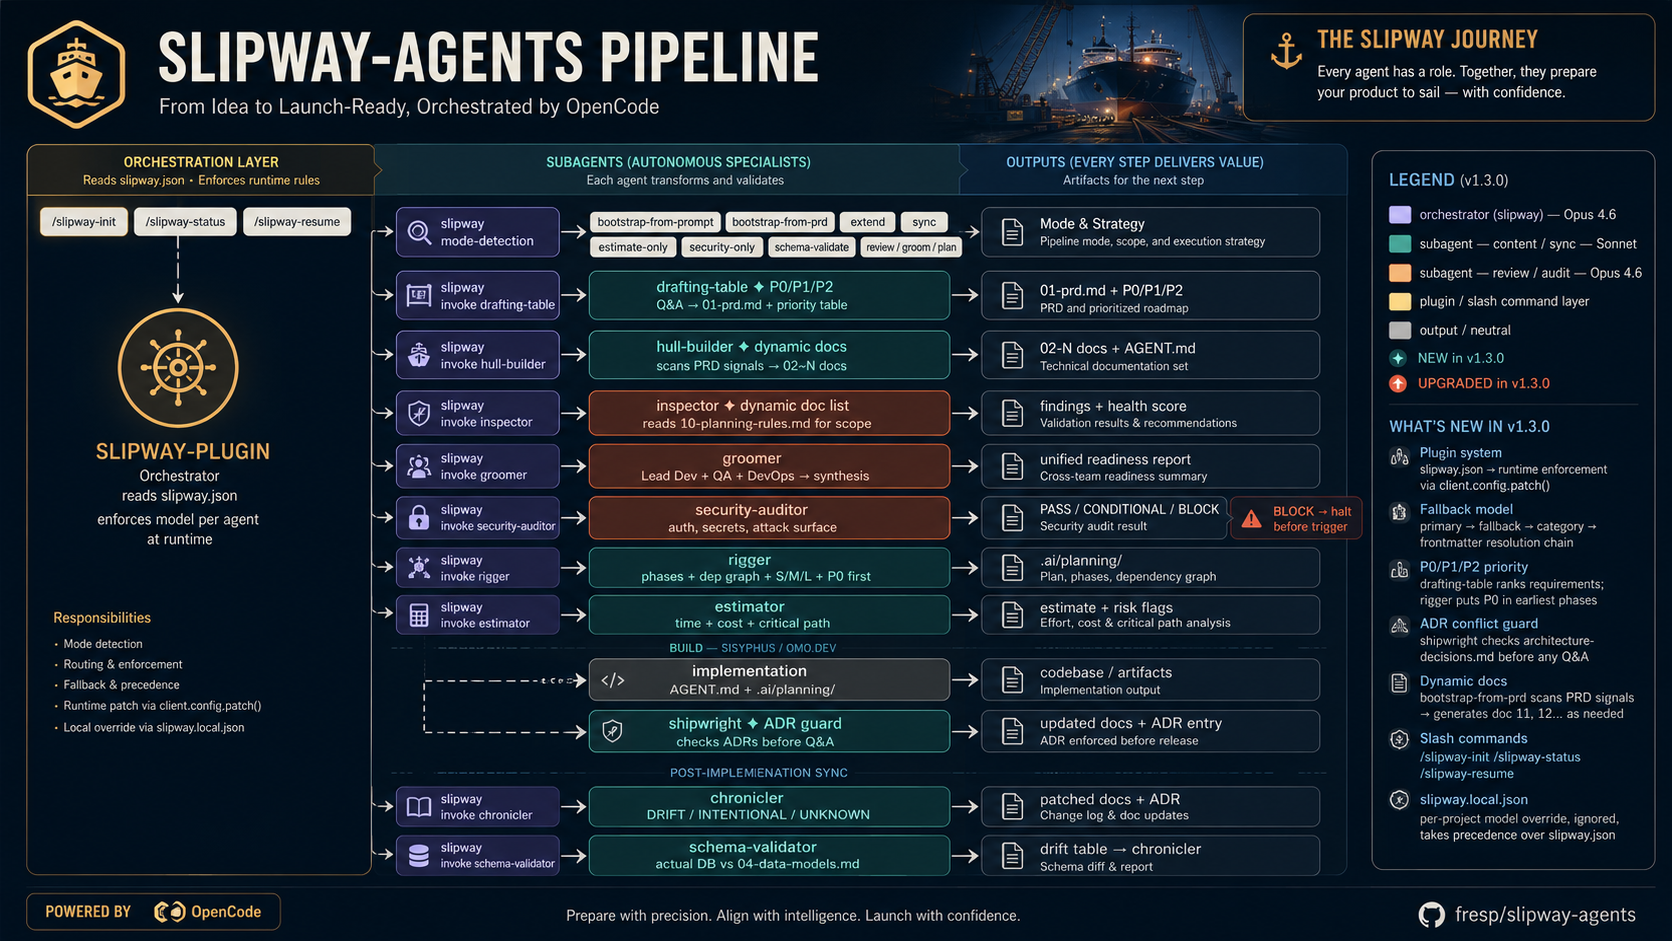
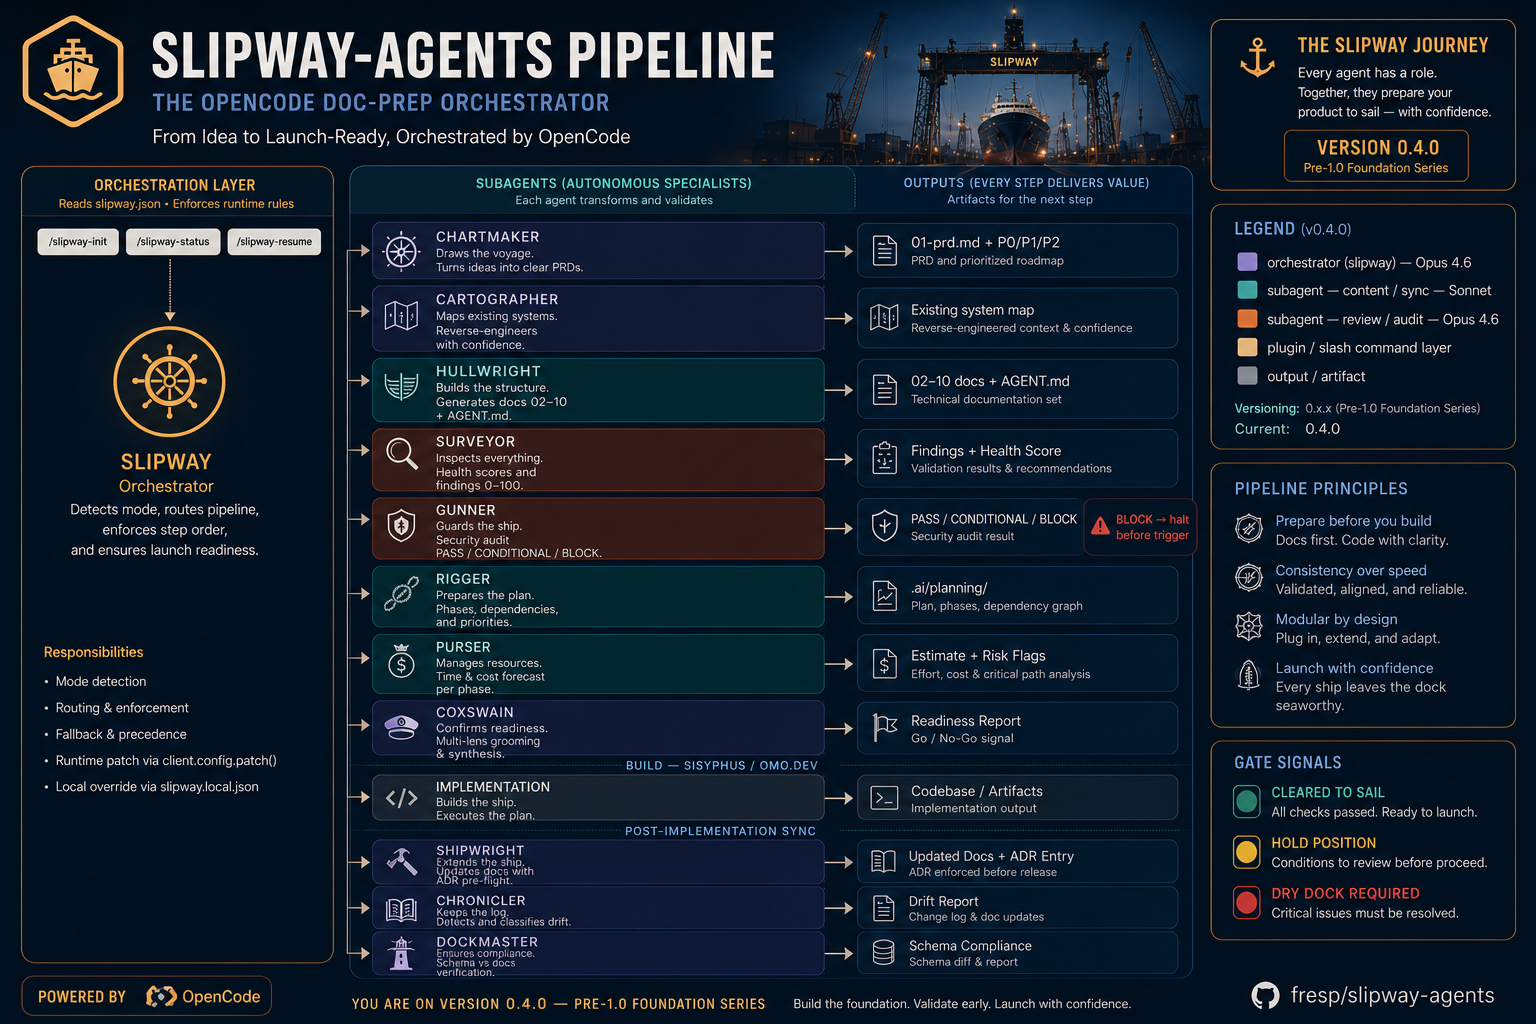
refactor: rename hull-builder agent to hullwright across documentation and configuration files

diff --git a/README.md b/README.md
@@ -18,7 +18,7 @@ slipway-agents takes a raw product idea or existing PRD and drives it through a 
 | **Input**            | `slipway`          | Detects mode: bootstrap, reverse-engineer, extend, or sync                         |
 | **Reverse-engineer** | `cartographer`     | Scans existing codebase → inferred docs 02–10 + gap-fill briefing for chartmaker   |
 | **PRD**              | `chartmaker`       | Structured Q&A → complete `01-prd.md` with P0/P1/P2 priority ranking              |
-| **Docs**             | `hull-builder`     | Invokes `bootstrap-from-prd` skill → docs `02`–`10` + `AGENT.md`                  |
+| **Docs**             | `hullwright`     | Invokes `bootstrap-from-prd` skill → docs `02`–`10` + `AGENT.md`                  |
 | **Review**           | `bosun`            | Cross-doc validation, per-doc health scores, severity-ranked findings 0–100        |
 | **Review**           | optimize loop      | Up to 2 cycles to resolve Critical findings before continuing                      |
 | **Security**         | `gunner`           | Auth, secrets, attack surface audit — PASS / CONDITIONAL / BLOCK gate              |
@@ -39,7 +39,7 @@ slipway-agents takes a raw product idea or existing PRD and drives it through a 
 | `slipway`      | Orchestrator — routes pipeline, enforces step order, never generates content      | `claude-opus-4-6`   |
 | `chartmaker`   | Raw prompt / partial PRD → complete `.ai/docs/01-prd.md` with P0/P1/P2 ranking   | `claude-sonnet-4-6` |
 | `cartographer` | Reverse-engineers existing codebase → `.ai/docs/` with confidence markers         | `claude-sonnet-4-6` |
-| `hull-builder` | Invokes `bootstrap-from-prd` skill → docs 02–10 + `AGENT.md`                     | `claude-sonnet-4-6` |
+| `hullwright` | Invokes `bootstrap-from-prd` skill → docs 02–10 + `AGENT.md`                     | `claude-sonnet-4-6` |
 | `bosun`        | Cross-doc validation + per-doc health score breakdown + severity-ranked findings  | `claude-opus-4-6`   |
 | `gunner`       | Auth, secrets, and attack surface audit across five lenses                        | `claude-opus-4-6`   |
 | `coxswain`     | Sprint grooming — Lead Dev, QA, DevOps, Complexity Audit lenses + synthesis       | `claude-sonnet-4-6` |
@@ -57,7 +57,7 @@ Model assignments live in [`slipway.json`](slipway.json) and are enforced at run
 
 | Skill                | Used by        | Purpose                                                        |
 | -------------------- | -------------- | -------------------------------------------------------------- |
-| `bootstrap-from-prd` | `hull-builder` | Generates the full 02–10 doc suite + `AGENT.md` from a PRD    |
+| `bootstrap-from-prd` | `hullwright` | Generates the full 02–10 doc suite + `AGENT.md` from a PRD    |
 | `groomer-lead-dev`   | `coxswain`     | Lead Dev lens — architecture, implementation risk, tech debt   |
 | `groomer-qa`         | `coxswain`     | QA lens — testability, edge cases, acceptance criteria gaps    |
 | `groomer-devops`     | `coxswain`     | DevOps/Cloud lens — infra, deployment, observability readiness |
@@ -75,7 +75,7 @@ A single pipeline run from a raw idea produces:
 │   ├── 02-technical-architecture.md        ┐
 │   ├── 03-service-boundaries.md            │
 │   ├── 04-data-models.md                   │
-│   ├── 05-api-specifications.md            ├─ hull-builder via bootstrap-from-prd skill
+│   ├── 05-api-specifications.md            ├─ hullwright via bootstrap-from-prd skill
 │   ├── 06-operational-flows.md             │
 │   ├── 07-engineering-standards.md         │
 │   ├── 08-architecture-decisions.md        │
@@ -197,7 +197,7 @@ Copy `slipway.json` to your project root and edit it. The plugin picks it up aut
     "slipway":      { "model": "amazon-bedrock/us.anthropic.claude-opus-4-6",   "fallback_model": "amazon-bedrock/us.anthropic.claude-sonnet-4-6" },
     "chartmaker":   { "model": "amazon-bedrock/us.anthropic.claude-sonnet-4-6", "fallback_model": "amazon-bedrock/us.anthropic.claude-haiku-4-5" },
     "cartographer": { "model": "amazon-bedrock/us.anthropic.claude-sonnet-4-6", "fallback_model": "amazon-bedrock/us.anthropic.claude-haiku-4-5" },
-    "hull-builder": { "model": "amazon-bedrock/us.anthropic.claude-sonnet-4-6", "fallback_model": "amazon-bedrock/us.anthropic.claude-haiku-4-5" },
+    "hullwright": { "model": "amazon-bedrock/us.anthropic.claude-sonnet-4-6", "fallback_model": "amazon-bedrock/us.anthropic.claude-haiku-4-5" },
     "bosun":        { "model": "amazon-bedrock/us.anthropic.claude-opus-4-6",   "fallback_model": "amazon-bedrock/us.anthropic.claude-sonnet-4-6" },
     "gunner":       { "model": "amazon-bedrock/us.anthropic.claude-opus-4-6",   "fallback_model": "amazon-bedrock/us.anthropic.claude-sonnet-4-6" },
     "coxswain":     { "model": "amazon-bedrock/us.anthropic.claude-sonnet-4-6", "fallback_model": "amazon-bedrock/us.anthropic.claude-haiku-4-5" },
@@ -238,7 +238,7 @@ Copy `slipway.json` to your project root and edit it. The plugin picks it up aut
 
 ## What's new in v0.2.0
 
-- **Runtime Capabilities in AGENT.md** — hull-builder now generates a `## Runtime Capabilities` section declaring exactly what tools the implementing agent is permitted to use (file write scope, bash commands, network policy, package installation) and what requires human confirmation before proceeding
+- **Runtime Capabilities in AGENT.md** — hullwright now generates a `## Runtime Capabilities` section declaring exactly what tools the implementing agent is permitted to use (file write scope, bash commands, network policy, package installation) and what requires human confirmation before proceeding
 - **Escalation Protocol in AGENT.md** — AGENT.md now includes a structured `## Escalation Protocol` specifying when to halt vs. retry, the four-step escalation procedure, and a one-retry policy with explicit logging
 - **Verification fields on every task** — rigger task entries now include `Expected output` (the concrete artifact produced), `Verify command` (shell command to confirm completion), and `Test command` (scoped test suite)
 - **Implementation state tracking** — orchestrator now manages `.ai/implementation-state.md` tracking per-phase progress, blocked task log, and test results across sessions

diff --git a/docs/guide/installation.md b/docs/guide/installation.md
@@ -71,7 +71,7 @@ cp slipway.json slipway.local.json
     "slipway":      { "model": "anthropic/claude-opus-4-6" },
     "chartmaker":   { "model": "anthropic/claude-sonnet-4-6" },
     "cartographer": { "model": "anthropic/claude-sonnet-4-6" },
-    "hull-builder": { "model": "anthropic/claude-sonnet-4-6" },
+    "hullwright": { "model": "anthropic/claude-sonnet-4-6" },
     "bosun":        { "model": "anthropic/claude-opus-4-6" },
     "gunner":       { "model": "anthropic/claude-opus-4-6" },
     "coxswain":     { "model": "anthropic/claude-sonnet-4-6" },

diff --git a/CHANGELOG.md b/CHANGELOG.md
@@ -27,7 +27,7 @@ Versioning follows [Semantic Versioning](https://semver.org/spec/v2.0.0.html).
 | `security-auditor` | `gunner` |
 | `schema-validator` | `surveyor` |
 
-`hull-builder`, `rigger`, `shipwright`, `chronicler` — unchanged.
+`hullwright`, `rigger`, `shipwright`, `chronicler` — unchanged.
 
 All internal cross-references, orchestrator routing, gate signal names, and model assignments updated to reflect new names. No functional changes — renames only.
 
